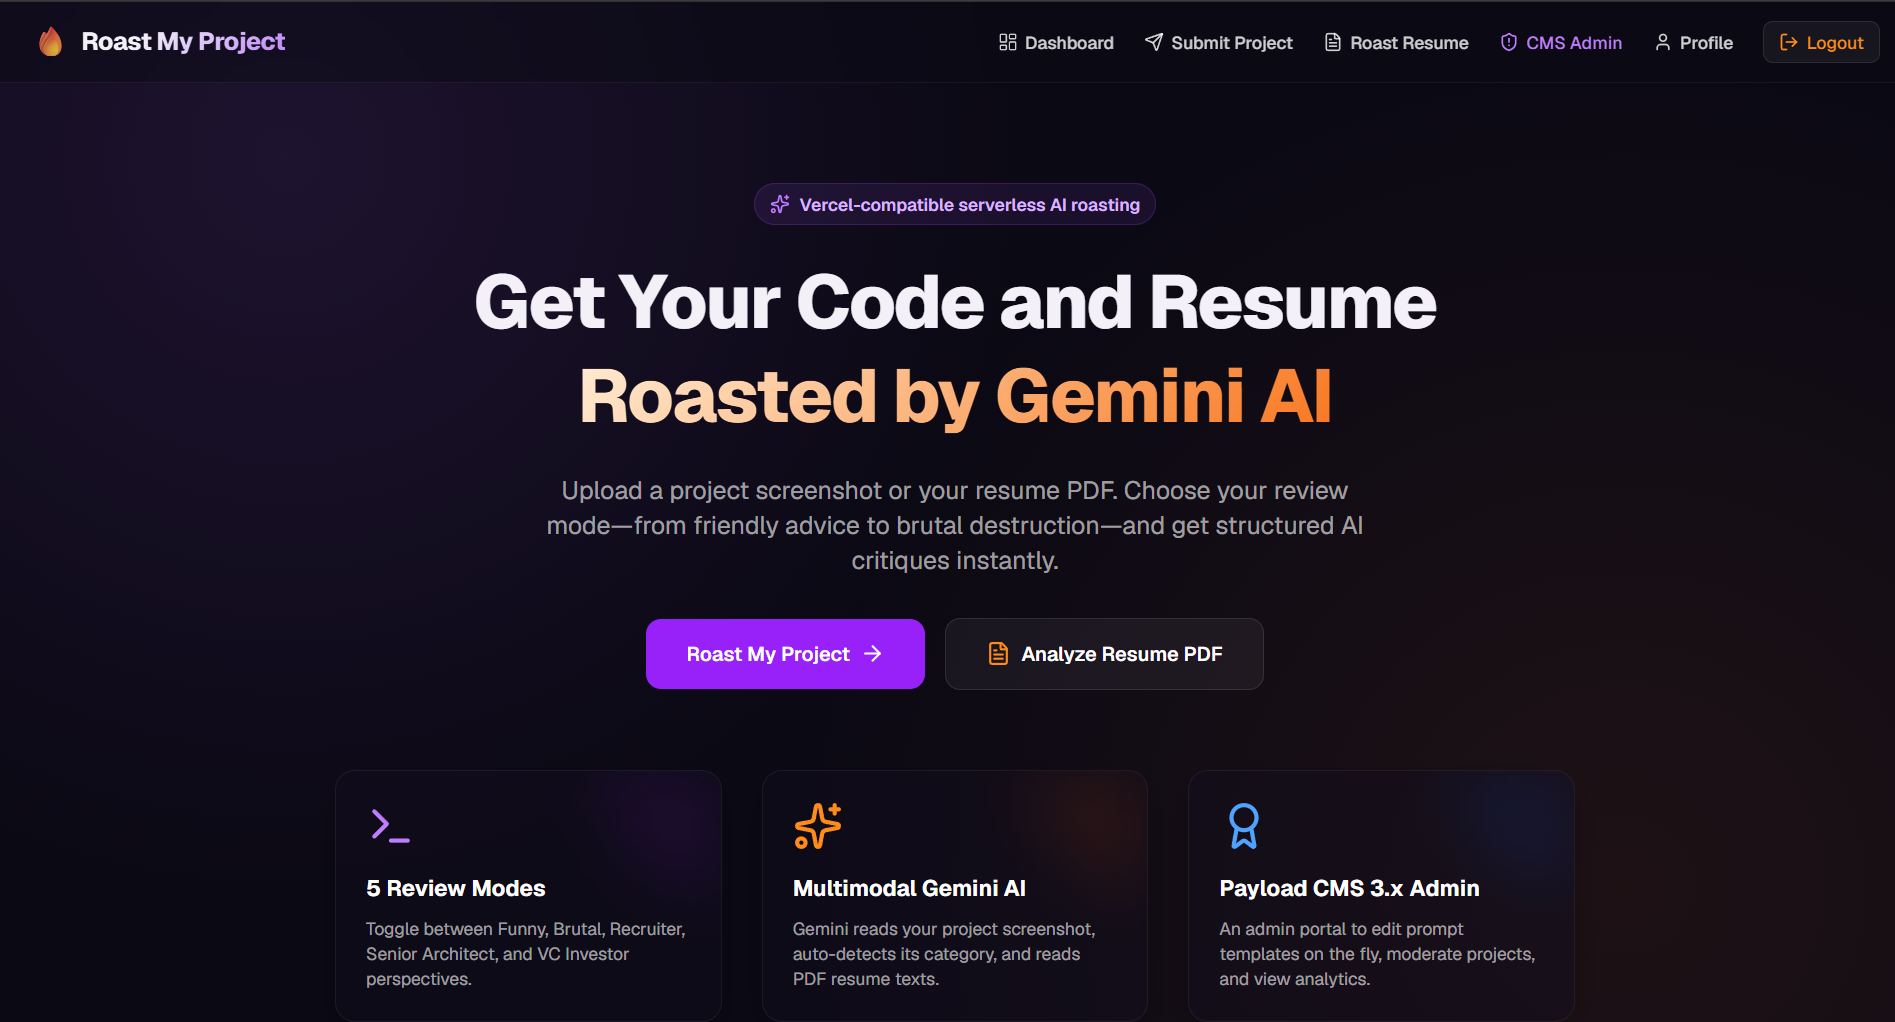
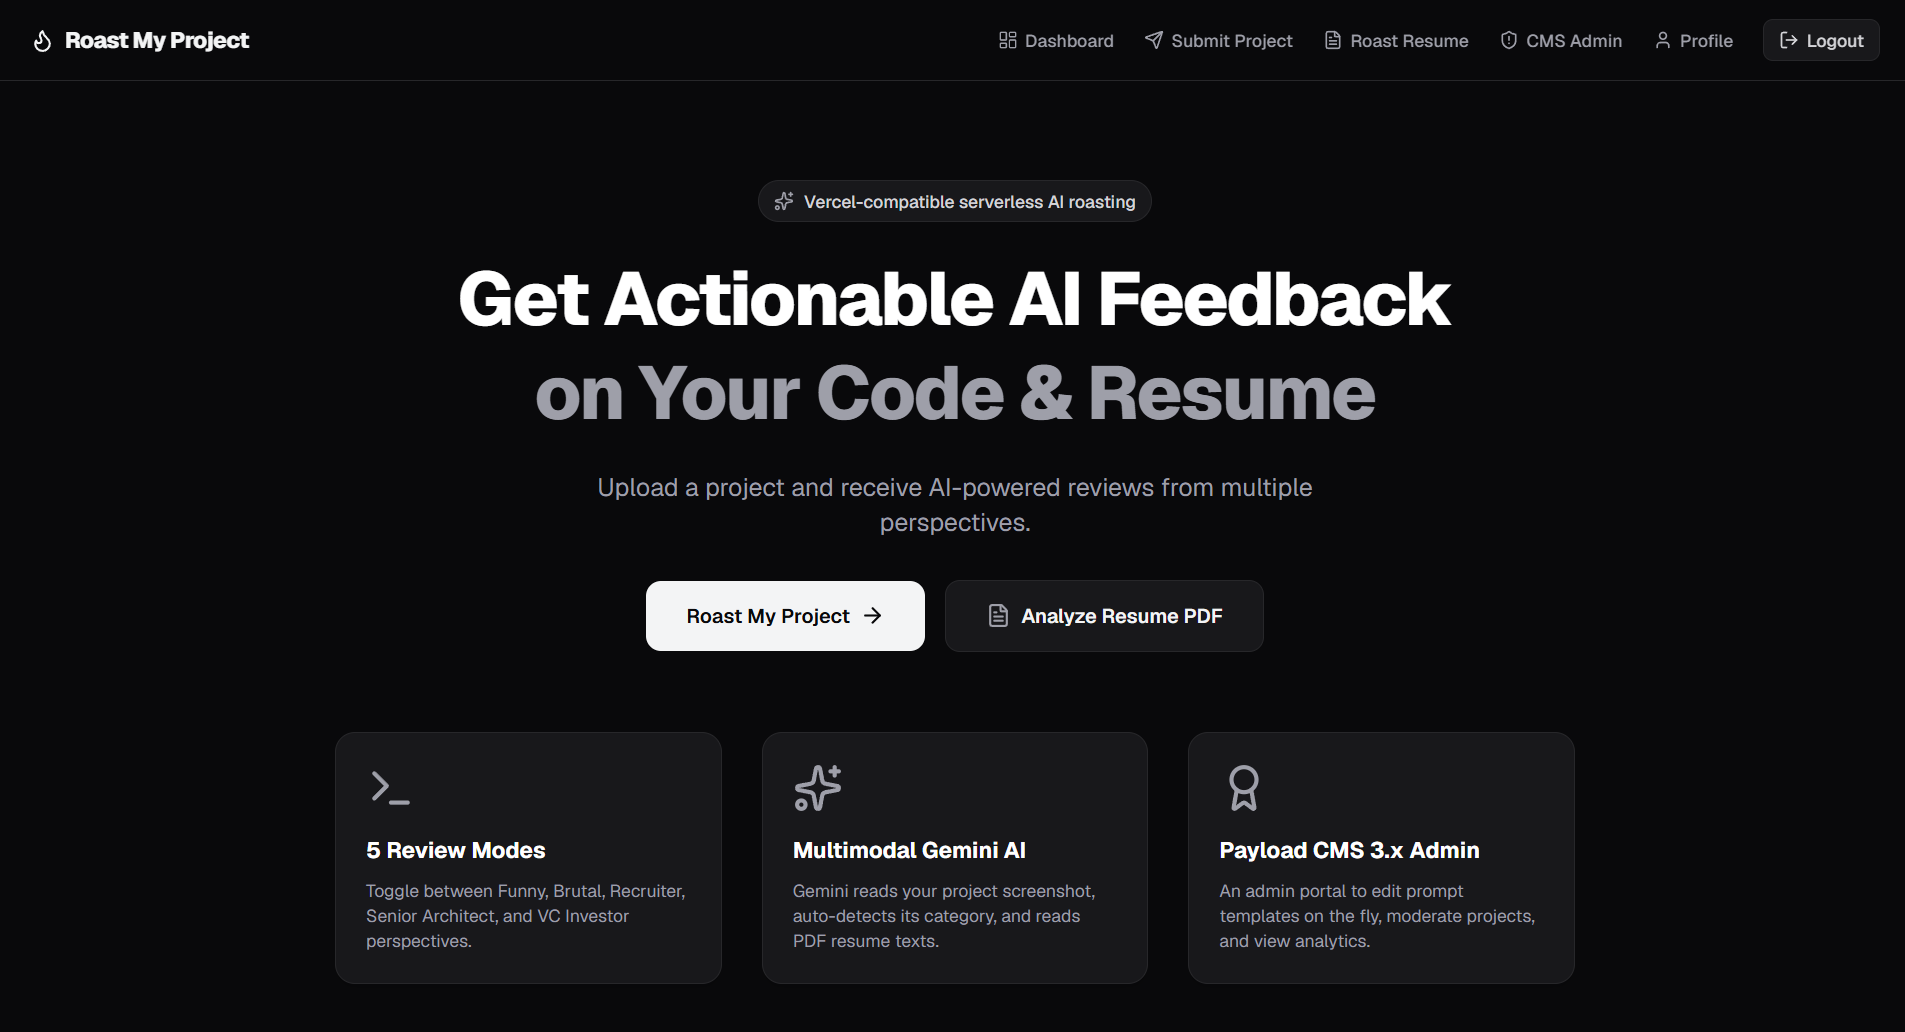
docs: add comprehensive project documentation and preview screenshot to README

diff --git a/README.md b/README.md
@@ -1,36 +1,296 @@
-This is a [Next.js](https://nextjs.org) project bootstrapped with [`create-next-app`](https://nextjs.org/docs/app/api-reference/cli/create-next-app).
+# 🔥 Roast My Project
 
-## Getting Started
+> Get brutal, funny, or professional AI feedback on your engineering projects and resumes. Boost your designs, improve your system architecture, and prepare for interviews using Gemini AI.
 
-First, run the development server:
+---
 
-```bash
-npm run dev
-# or
-yarn dev
-# or
-pnpm dev
-# or
-bun dev
+## 📸 Project Preview
+![Roast My Project Screenshot](./src/assets/Screenshot%202026-06-05%20002234.png)
+
+---
+
+## 🛠️ Stack & Technologies
+
+The application is built on a modern, high-performance tech stack utilizing a Unified Serverless Next.js architecture integrated with a Headless CMS backend and multi-modal generative AI pipelines.
+
+| Layer | Technologies / Packages | Description |
+| :--- | :--- | :--- |
+| **Frontend Framework** | **Next.js 15+** (App Router), React 19, TypeScript | High-performance, SEO-friendly, server-side rendered foundation with client-side interactive routing. |
+| **Styling** | **Tailwind CSS v4**, PostCSS | Sleek, glassmorphic layout and dark-mode styling utilizing modern CSS custom property theme mappings. |
+| **AI Integration** | **@google/generative-ai** (Gemini API) | Multimodal prompts analyzing base64 encoded screenshots and PDF document attachments. |
+| **Database & CMS** | **Payload CMS 3.x**, **MongoDB** (Mongoose) | Unified backend dashboard, API Router, schema management, and local database API. |
+| **Authentication** | **Firebase Admin SDK** (Google OAuth), **Twilio** (SMS OTP), JWT | Multi-channel authorization flow issuing custom JWT tokens verified on protected route handlers. |
+| **Media Hosting** | **Cloudinary** | Cloud host for screenshot uploads and resume PDF files. |
+| **Diagnostics** | **Sharp**, Axios, Custom Health Routes | Automated image validation metrics, API latency testing, and system diagnostics. |
+
+---
+
+## ⚙️ System Workflow & Architecture
+
+The application handles two primary workflows: **Project Roasts** (Multimodal screenshots + metadata) and **Resume Reviews** (PDF document parsing).
+
+### 1. Roast Request Pipeline
+```mermaid
+flowchart TD
+    A[Client Request: POST /api/ai/roast] --> B[Validate Environment & Authenticate JWT]
+    B -->|Authorized| C[Fetch Project Metadata from MongoDB]
+    B -->|Unauthorized| D[Return 401/403 Error]
+    C --> E[Verify & Download Screenshot from Cloudinary]
+    E --> F[Run Sharp Image Diagnostics]
+    F --> G[Load Roaster Prompt from Prompts Collection]
+    G --> H[Run getBestAvailableModel Ping Check]
+    H -->|Select Best Model| I[Construct Multimodal Gemini Request]
+    I --> J[Call Gemini API with image + prompt]
+    J -->|Success| K[Sanitize and Parse JSON Response]
+    J -->|Failure| L[Log Error & Return API Error Status]
+    K --> M[Validate JSON schema]
+    M -->|Valid| N[Save Review to Database]
+    M -->|Invalid Schema| O[Attempt Fallback JSON Recovery]
+    N --> P[Check Category Mismatch & Update Project]
+    P --> Q[Return Review & Score to User]
 ```
 
-Open [http://localhost:3000](http://localhost:3000) with your browser to see the result.
+### 2. Multi-Channel Authentication Workflow
+* **Google OAuth**: Users authenticate client-side via Google Sign-In with Firebase, generating an ID Token. The server decrypts and validates the token using the `firebase-admin` SDK, creates/updates the User record in MongoDB, and signs an application-level JWT.
+* **SMS OTP (Twilio)**: Users request a verification code sent to their mobile device. If Twilio environment variables are unconfigured, the system automatically falls back to **Mock Developer Mode**, outputting the generated code to the server log and return payloads for local testing convenience.
 
-You can start editing the page by modifying `app/page.tsx`. The page auto-updates as you edit the file.
+---
 
-This project uses [`next/font`](https://nextjs.org/docs/app/building-your-application/optimizing/fonts) to automatically optimize and load [Geist](https://vercel.com/font), a new font family for Vercel.
+## 🗄️ Database Schema Design (UML / ERD)
 
-## Learn More
+Managed dynamically via **Payload CMS collections** backed by MongoDB. Prompt templates are seeded automatically during the database initializing hook.
 
-To learn more about Next.js, take a look at the following resources:
+```mermaid
+erDiagram
+    USERS ||--o{ PROJECTS : "creates"
+    USERS ||--o{ RESUMES : "submits"
+    PROJECTS ||--o{ REVIEWS : "gets"
+    OTP_VERIFICATIONS ||--o{ USERS : "verifies"
+    
+    USERS {
+        ObjectId id PK
+        string name
+        string phone
+        string email
+        string authType "google | twilio"
+        date lastLogin
+    }
+    PROJECTS {
+        ObjectId id PK
+        string title
+        string description
+        string screenshotUrl
+        string screenshotPublicId
+        string githubUrl
+        string liveUrl
+        string category "auto-detected"
+        ObjectId user FK
+    }
+    REVIEWS {
+        ObjectId id PK
+        string roast
+        string review
+        array strengths
+        array weaknesses
+        array suggestions
+        number score "1-10"
+        string mode "select"
+        ObjectId project FK
+    }
+    RESUMES {
+        ObjectId id PK
+        string resumeUrl
+        string resumePublicId
+        number score "1-100"
+        string roast
+        array suggestions
+        ObjectId user FK
+    }
+    OTP_VERIFICATIONS {
+        ObjectId id PK
+        string phone
+        string otp
+        date expiresAt "TTL Indexed"
+        boolean verified
+    }
+    PROMPTS {
+        ObjectId id PK
+        string key "unique"
+        string promptText
+        string description
+    }
+    ADMINS {
+        ObjectId id PK
+        string email
+        string password
+    }
+    GEMINI_DEBUG_LOGS {
+        ObjectId id PK
+        string requestId
+        string projectId
+        string reviewMode
+        string rawResponse
+        boolean parseSuccess
+        string parseError
+        string modelUsed
+        string errorType
+        string errorMessage
+        number promptLength
+        number imageBytes
+    }
+```
 
-- [Next.js Documentation](https://nextjs.org/docs) - learn about Next.js features and API.
-- [Learn Next.js](https://nextjs.org/learn) - an interactive Next.js tutorial.
+---
 
-You can check out [the Next.js GitHub repository](https://github.com/vercel/next.js) - your feedback and contributions are welcome!
+## 📂 Codebase File Tree
 
-## Deploy on Vercel
+The workspace uses a unified structure where Payload CMS is mounted onto Next.js routes under the `(payload)` path, and the user application runs under `(app)`.
 
-The easiest way to deploy your Next.js app is to use the [Vercel Platform](https://vercel.com/new?utm_medium=default-template&filter=next.js&utm_source=create-next-app&utm_campaign=create-next-app-readme) from the creators of Next.js.
+```
+.
+├── payload.config.ts                      # Payload CMS Configuration (Collections & DB adapters)
+├── next.config.ts                         # Next.js configurations
+├── package.json                           # Workspace scripts & dependencies
+├── tsconfig.json                          # TypeScript project compiler definitions
+├── eslint.config.mjs                      # Linter properties
+├── postcss.config.mjs                     # PostCSS configurations
+└── src/
+    ├── test-gemini.ts                     # Standalone Gemini API prompt validation script
+    ├── test-gemini-models.ts              # Model listing diagnostic script
+    ├── assets/
+    │   └── Screenshot 2026-06-05 002234.png # Project Preview image
+    ├── config/
+    │   └── gemini.ts                      # Gemini API client & fallback health manager
+    ├── context/
+    │   └── AuthContext.tsx                # Frontend Auth Provider & route guardian
+    ├── lib/
+    │   ├── env.ts                         # Startup Environment validator
+    │   ├── errors.ts                      # Gemini error classification translator
+    │   └── timing.ts                      # Multi-stage request duration timer
+    ├── types/
+    │   └── ai.ts                          # Structured Review interfaces and runtime guards
+    ├── utils/
+    │   ├── apiClient.ts                   # Custom Axios API configuration (auto JWT inclusion)
+    │   ├── auth.ts                        # JWT utilities (signing, decoding, validation)
+    │   └── firebase.ts                    # Firebase Client SDK initializer
+    ├── components/
+    │   ├── AdminAnalytics.tsx             # Analytics widget injected before Payload dashboard
+    │   ├── ErrorState.tsx                 # Standardized component for handling runtime failures
+    │   └── SkeletonLoader.tsx             # Content loading placeholders
+    ├── collections/                       # MongoDB collection configurations for Payload
+    │   ├── Admins.ts                      # Payload Admin users
+    │   ├── Users.ts                       # Application clients
+    │   ├── OtpVerifications.ts            # Verification registers (MongoDB TTL indexed)
+    │   ├── Projects.ts                    # User uploads (Titles, category & Cloudinary metadata)
+    │   ├── Reviews.ts                     # Generated project evaluations
+    │   ├── Resumes.ts                     # Generated resume reviews
+    │   ├── Prompts.ts                     # Dynanic system prompts for roasting modes
+    │   └── GeminiDebugLogs.ts             # Raw API payloads and parsing diagnostics
+    └── app/
+        ├── favicon.ico
+        ├── (payload)/                     # Next.js router mappings mounting the Payload Admin portal
+        │   ├── admin/
+        │   │   ├── importMap.js           # Compiled admin assets imports
+        │   │   ├── importMap.ts
+        │   │   └── [[...slug]]/           # Dynamic Admin Panel route catcher
+        │   └── api/
+        │       └── [[...slug]]/           # Dynamic Payload CMS API router
+        └── (app)/                         # Next.js User Application Routes
+            ├── globals.css                # Global styling utilizing Tailwind CSS v4 variables
+            ├── layout.tsx                 # App entry setup mounting layout shells & Auth Provider
+            ├── page.tsx                   # Interactive project landing page
+            ├── login/                     # Phone OTP & Google Auth portal login screen
+            ├── verify-otp/                # SMS OTP code verification terminal
+            ├── dashboard/                 # User workspace displaying statistics and projects
+            ├── submit/                    # Form for posting a project and uploading screenshots
+            ├── resume/                    # Portal for uploading and analyzing PDF resumes
+            ├── profile/                   # User profile manager
+            ├── results/                   # Detailed results screens
+            │   ├── project/[id]/          # Detailed report for project roasts
+            │   └── resume/[id]/           # Detailed report for resume reviews
+            └── api/                       # REST endpoint route handlers
+                ├── upload/                # Cloudinary image/pdf stream upload
+                ├── projects/              # CRUD endpoints for managing projects
+                │   └── [id]/
+                ├── reviews/               # Fetch evaluations and reviews
+                │   └── [id]/
+                ├── dashboard/stats/       # Dashboard metrics (Averages, timelines, Recharts data)
+                ├── admin/stats/           # System analytics summaries for Payload admins
+                ├── debug/roast-health/    # Server dependency diagnostic endpoint
+                ├── auth/
+                │   ├── firebase-login/    # Google Login token validation
+                │   ├── send-otp/          # Generate & send Twilio SMS OTP
+                │   └── verify-otp/        # Validate OTP & return custom signed JWT
+                └── ai/
+                    ├── roast/             # Gemini Roast orchestrator (Image analysis)
+                    └── resume-review/     # Gemini Resume orchestrator (PDF document analysis)
+```
 
-Check out our [Next.js deployment documentation](https://nextjs.org/docs/app/building-your-application/deploying) for more details.
+---
+
+## 🔑 Environment Variables Setup
+
+Create a `.env` file in the root directory and configure the following keys:
+
+```env
+# MongoDB Connection
+MONGODB_URI=your_mongodb_connection_string
+
+# Payload CMS Configuration
+PAYLOAD_SECRET=your_payload_session_signing_secret
+PAYLOAD_PUBLIC_SERVER_URL=http://localhost:3000
+
+# Application JWT Authorization Secret
+JWT_SECRET=your_jwt_signing_secret_for_app_users
+
+# Gemini API Integration
+GEMINI_API_KEY=your_gemini_developer_api_key
+ENABLE_GEMINI_DEBUG=true
+
+# Cloudinary Integration (Media Storage)
+CLOUDINARY_CLOUD_NAME=your_cloudinary_cloud_name
+CLOUDINARY_API_KEY=your_cloudinary_api_key
+CLOUDINARY_API_SECRET=your_cloudinary_api_secret
+
+# Twilio SMS OTP Configuration
+TWILIO_ACCOUNT_SID=your_twilio_sid
+TWILIO_AUTH_TOKEN=your_twilio_auth_token
+TWILIO_PHONE_NUMBER=your_twilio_phone_number
+
+# Frontend Firebase Configuration (Exposed)
+NEXT_PUBLIC_FIREBASE_API_KEY=your_firebase_api_key
+NEXT_PUBLIC_FIREBASE_AUTH_DOMAIN=your_firebase_auth_domain
+NEXT_PUBLIC_FIREBASE_PROJECT_ID=your_firebase_project_id
+NEXT_PUBLIC_FIREBASE_STORAGE_BUCKET=your_firebase_storage_bucket
+NEXT_PUBLIC_FIREBASE_MESSAGING_SENDER_ID=your_firebase_sender_id
+NEXT_PUBLIC_FIREBASE_APP_ID=your_firebase_app_id
+NEXT_PUBLIC_FIREBASE_MEASUREMENT_ID=your_firebase_measurement_id
+```
+
+*Note: If Twilio credentials are left empty, the application will default to Mock OTP verification mode (printing the OTP codes inside your terminal).*
+
+---
+
+## 🚀 Getting Started
+
+Follow these steps to run the application locally:
+
+### 1. Install Dependencies
+```bash
+npm install
+```
+
+### 2. Run the Development Server
+```bash
+npm run dev
+```
+Open [http://localhost:3000](http://localhost:3000) in your browser to view the application.
+
+### 3. Access Payload Admin Dashboard
+Navigate to [http://localhost:3000/admin](http://localhost:3000/admin) to log into the Payload CMS interface. You can create an admin profile on the first load, which will auto-seed the default roaster prompt templates (`Funny Roast`, `Brutal Roast`, etc.) into your MongoDB instance.
+
+### 4. Build for Production
+```bash
+npm run build
+npm start
+```